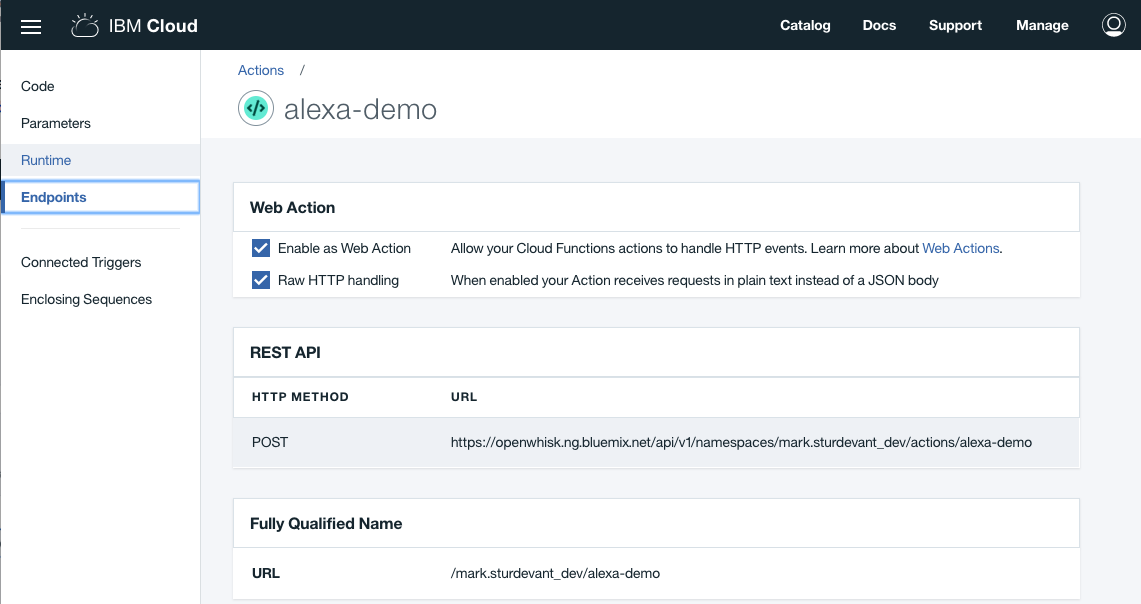
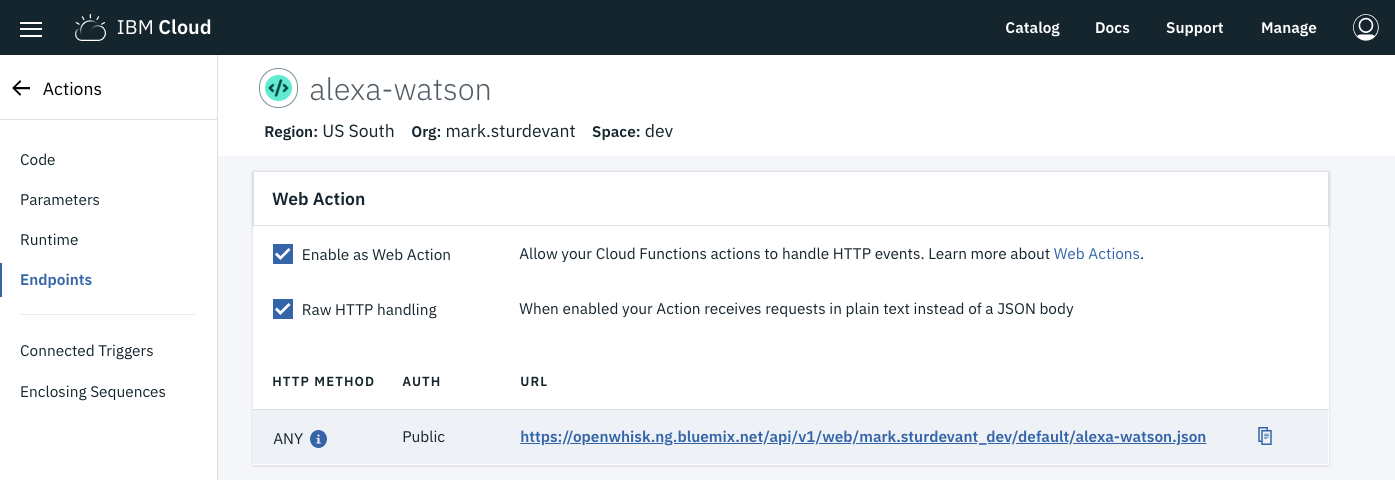
Update the Web Action URL endpoint image and instructions.
The instructions were expanded when the Web Action URL was
not shown in the UI.  It is back, so now we can just show it
and not explain so much about how to come up with it on your own.

diff --git a/README.md b/README.md
@@ -191,24 +191,9 @@ Copy the data from `data/alexa` to fill out these three sections.
 #### Sample Utterances
 ![](doc/source/images/sample_utterances.png)
 
-On the configuration page you need to define an **HTTPS** service endpoint which is the URL of your OpenWhisk action ending with '.json'. To find this URL, navigate to [IBM Cloud Functions - Actions](https://console.bluemix.net/openwhisk/manage/actions), click on your action and navigate to `Endpoints`.
+On the configuration page you need to define an **HTTPS** service endpoint which is the URL of your OpenWhisk **Web Action**. To find this URL, navigate to [IBM Cloud Functions - Actions](https://console.bluemix.net/openwhisk/manage/actions), click on your action and navigate to `Endpoints`.  The Web Action URL ends with `.json`.
 
 ![](doc/source/images/functions_endpoints.png)
-
-To get the Web Action URL, take the example POST URL and:
-* Replace "/namespaces/" with "/web/"
-* Replace "/actions/" with "/default/" (or your package name)
-* Add a ".json" suffix
-
-You can use the `POST URL` in this script to get the proper Web Action URL:
-```
-echo <POST_URL> | sed -e s/namespaces/web/ -e s/actions/default/ |rename -n 's/$/.json/'
-```
-
-The resulting URL will have the following structure:
-```
-https://{APIHOST}/api/v1/web/{namespace}/{packageName}/{actionName}.json
-```
 
 Hit `Next`. Under 'Certificate for DEFAULT Endpoint:' select the `My development endpoint is a sub-domain of a domain that has a wildcard certificate from a certificate authority` option.
 
